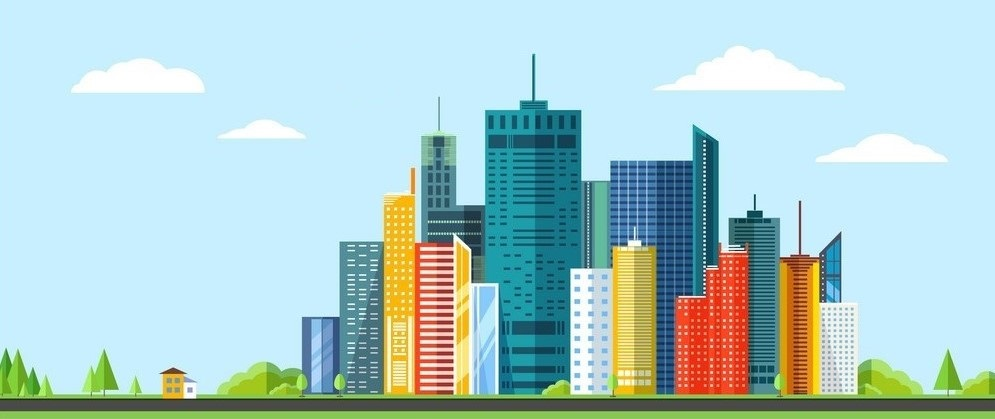
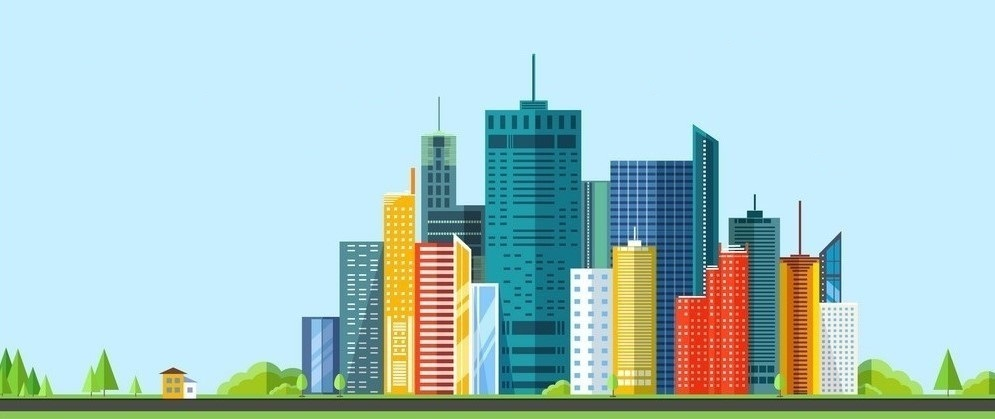
added clouds

diff --git a/script.js b/script.js
@@ -1,4 +1,5 @@
 let sun = document.getElementsByClassName('sun')[0];
+let clouds = document.getElementsByClassName('clouds');
 
 function changetime() {
     let bgclr = document.getElementsByTagName('body')[0];
@@ -6,22 +7,92 @@ function changetime() {
     let slider = document.getElementsByClassName('slider')[0];
 
     if (document.getElementsByClassName('check')[0].checked) {
+        sunmoon('sun');
         bgclr.style.backgroundColor = "#c8e7ff";
-        bgimg.src = "images/night.jpg";
+        bgimg.style.backgroundImage = "url('images/night.jpg')";
         slider.style.backgroundColor = "#222e48";
-        sun.src = "images/moon.png";
+        clouds[0].src = "images/nc1.png";
+        clouds[1].src = "images/nc2.png";
+        clouds[2].src = "images/nc3.png";
+        clouds[3].src = "images/nc4.png";
     }
     else {
+        sunmoon('moon')
         bgclr.style.backgroundColor = "#222e48";
-        bgimg.src = "images/day.jpg"
+        bgimg.style.backgroundImage = "url('images/day.jpg')";
         slider.style.backgroundColor = "#c8e7ff";
-        sun.src = "images/sun.png"
+        clouds[0].src = "images/dc1.png";
+        clouds[1].src = "images/dc2.png";
+        clouds[2].src = "images/dc3.png";
+        clouds[3].src = "images/dc4.png";
     }
 }
-var rot = 0;
-setInterval(animate, 50);
+let rot = 0;
 function animate() {
     rot += 1
     sun.style.transform = `rotate(${rot}deg)`;
-    console.log('rotated')
 }
+
+function sunmoon(bodyon) {
+    // clearInterval(sunrot);
+    // sun.style.transform="perspective(1000px) translateZ(-1000px)"
+    // transform: perspective(1000px) ;
+    // setInterval(animate, 50);
+    if (bodyon == 'sun') {
+        sun.src = "images/moon.png";
+    }
+    else {
+        sun.src = "images/sun.png"
+    }
+}
+
+let cm1 = 0;
+let dr1;
+function movecloud1() {
+    let cl1 = clouds[0];
+    if (dr1) { cm1--; }
+    else { cm1++; }
+    cl1.style.marginLeft = cm1 + "px";
+    if (cm1 === 980) { dr1 = true; }
+    else if (cm1 === 0) { dr1=false; }
+}
+
+let cm2 = 0
+let dr2;
+function movecloud2() {
+    let cl2 = clouds[1];
+    if (dr2) { cm2--; }
+    else { cm2++; }
+    cl2.style.marginLeft = cm2 + "px";
+    if (cm2 === 680) { dr2 = true; }
+    else if (cm2 === 0) { dr2=false; }
+}
+
+let cm3 = 0
+let dr3;
+function movecloud3() {
+    let cl3 = clouds[2];
+    if (dr3) { cm3++; }
+    else { cm3--; }
+    cl3.style.marginLeft = cm3 + "px";
+    if (cm3 === -680) { dr3 = true; }
+    else if (cm3 === 0) { dr3=false; }
+}
+
+let cm4 = 0
+let dr4;
+function movecloud4() {
+    let cl4 = clouds[3];
+    if (dr4) { cm4++; }
+    else { cm4--; }
+    cl4.style.marginLeft = cm4 + "px";
+    if (cm4 === -1080) { dr4 = true; }
+    else if (cm4 === 0) { dr4=false; }
+}
+
+sunrot = setInterval(animate, 50);
+setInterval(movecloud1, 50);
+setInterval(movecloud2, 30);
+setInterval(movecloud3, 60);
+setInterval(movecloud4, 40);
+

diff --git a/style.css b/style.css
@@ -10,7 +10,7 @@ body {
     color: red;
 }
 
-div {
+.toggler {
     padding: 0 100px;
     height: 70px;
     width: 100%;
@@ -57,11 +57,14 @@ input:checked+.slider::before {
 }
 
 .background {
-    height: 85%;
-    width: 90%;
+    height: 85vh;
+    width: 90vw;
+    background-image: url("images/day.jpg");
+    background-size: 100% 100%;
     border-radius: 30px;
     margin: 0 5% 5%;
     border: 5px solid white;
+    transition: .5s;
 }
 
 .sun{
@@ -70,4 +73,41 @@ input:checked+.slider::before {
     width: 100px;
     top: 20%;
     left: 35%;
+    z-index: 1;
+    /* transition: 1s; */
+    /* transform: perspective(1000px) translateZ(-1000px); */
+}
+
+.clouds{
+    position: absolute;
+}
+
+.c1{
+    height: 14%;
+    width: 17%;
+    top: 17%;
+    left: 9%;
+    z-index: 2;
+}
+
+.c2{
+    height: 8%;
+    width: 10%;
+    top: 31%;
+    left: 24%;
+}
+
+.c3{
+    height: 15%;
+    width: 20%;
+    top: 16%;
+    left: 63%;
+    z-index: 0;
+}
+
+.c4{
+    height: 11%;
+    width: 16%;
+    top: 33%;
+    left: 77%;
 }

diff --git a/index.html b/index.html
@@ -11,7 +11,7 @@
 </head>
 
 <body>
-    <div>
+    <div class="toggler">
         <span class="tags">DAY</span>
         <label class="switch">
             <input type="checkbox" class="check" onclick="changetime()">
@@ -19,8 +19,12 @@
         </label>
         <span class="tags">NIGHT</span>
     </div>
-    <img src="images/day.jpg" alt="backgroundimage" class="background">
+    <div class="background"></div>
     <img src="images/sun.png" alt="sun" class="sun">
+    <img src="images/dc1.png" alt="cloud" class="clouds c1">
+    <img src="images/dc2.png" alt="cloud" class="clouds c2">
+    <img src="images/dc3.png" alt="cloud" class="clouds c3">
+    <img src="images/dc4.png" alt="cloud" class="clouds c4">
     <script src="script.js"></script>
 </body>
 
